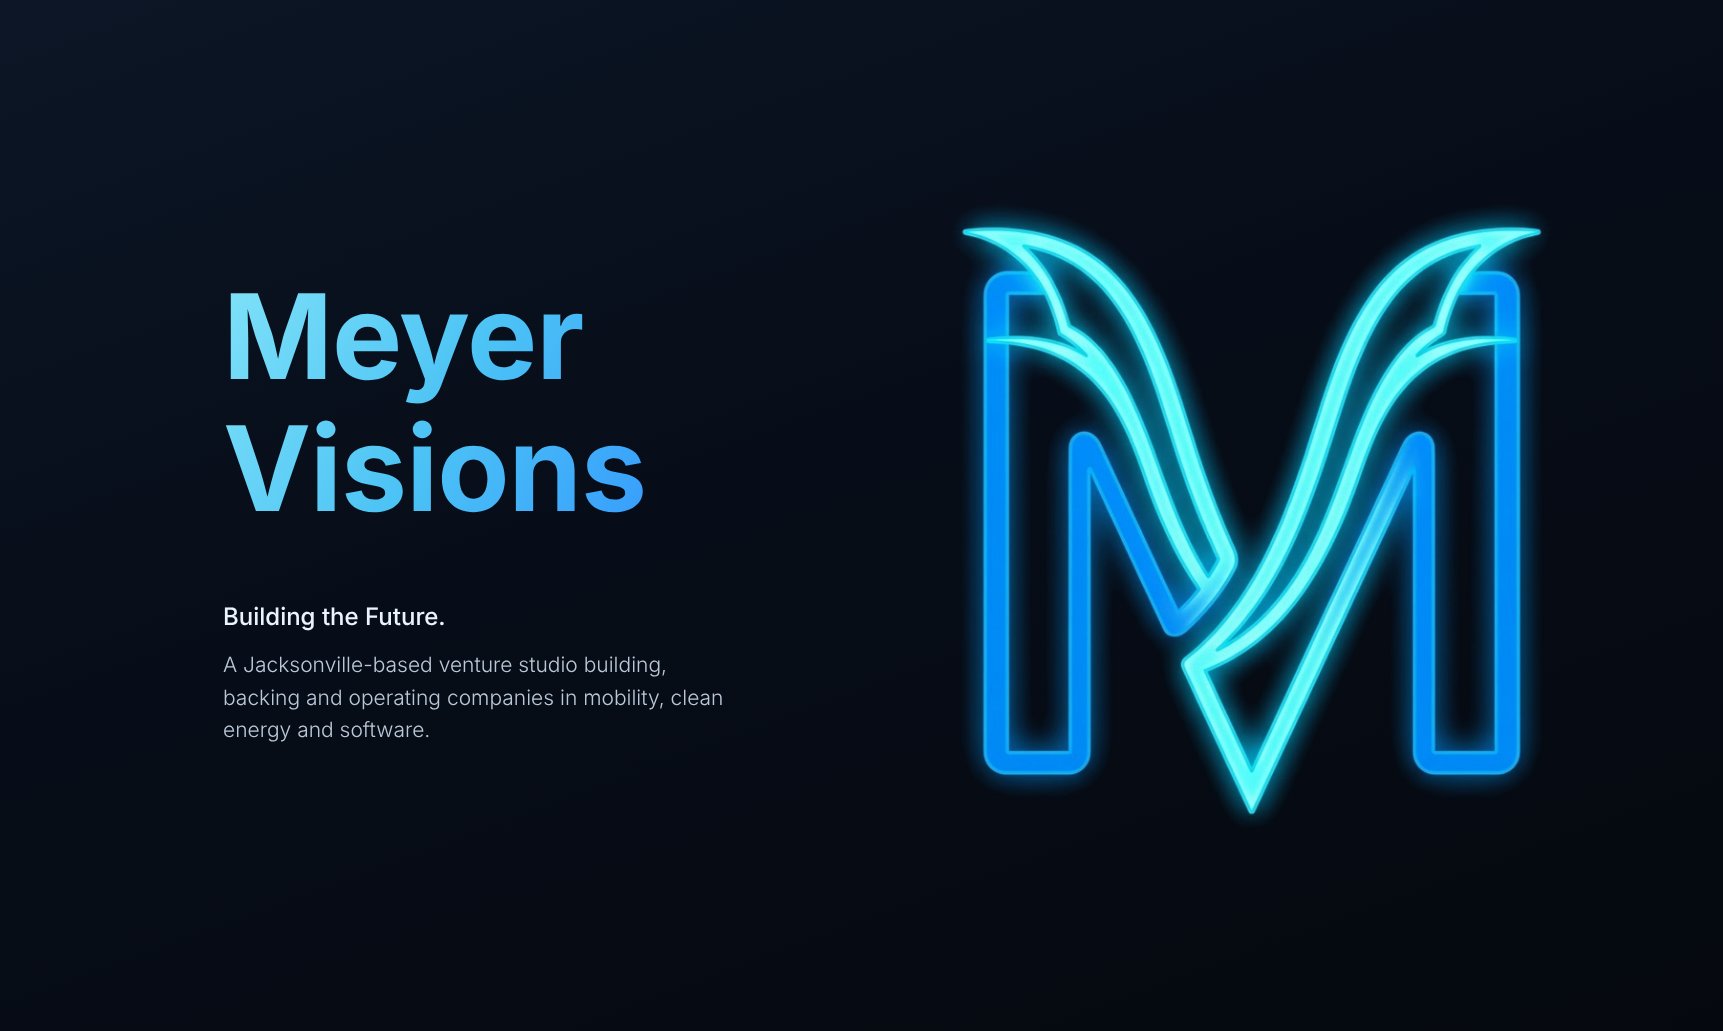
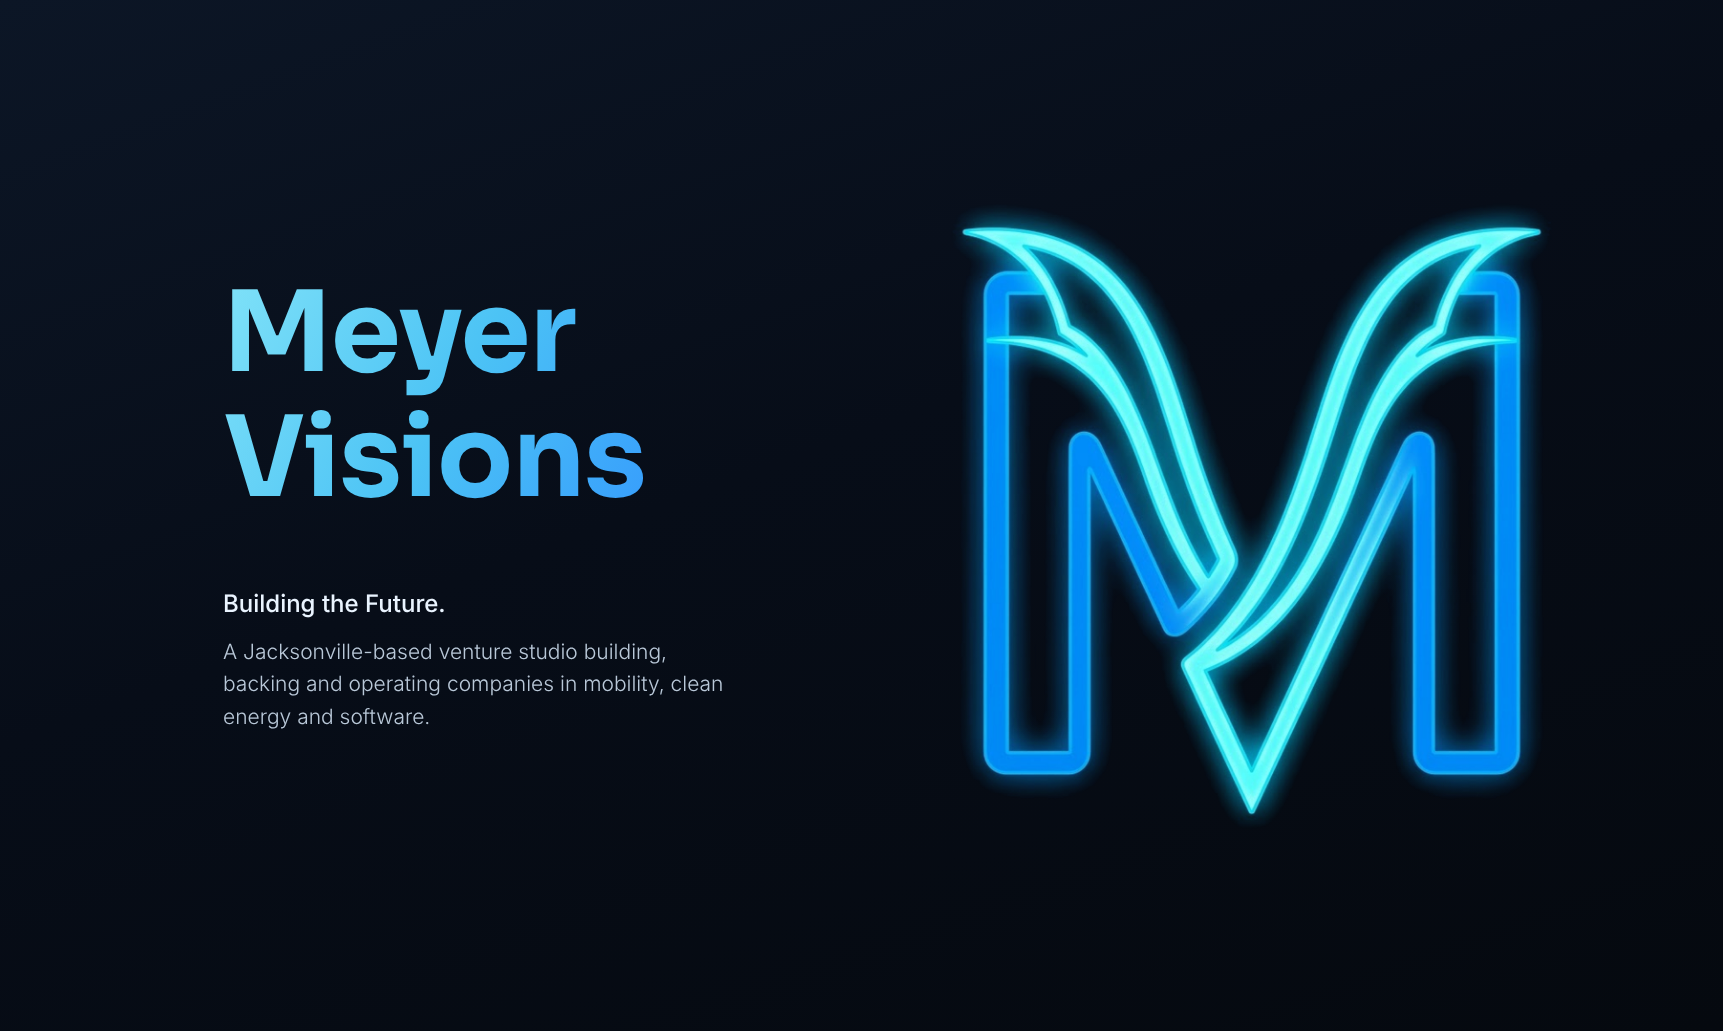
Squash 2026-11-sora-font

Changed region(s): [[0.123, 0.2793, 0.3691, 0.4966], [0.123, 0.5587, 0.4306, 0.7139]]

diff --git a/src/components/Hero.vue b/src/components/Hero.vue
@@ -67,7 +67,12 @@ const TextContainer = styled.div`
   margin: 10px;
 
   /* Responsive */
-  margin-top: -20px;
+  margin-top: 100px;
+
+  /* Short screens: less top margin so the button keeps room below it */
+  @media screen and (max-height: 760px) {
+    margin-top: 40px;
+  }
 
   @media screen and (max-width: ${({theme}) => theme.screen.width.desktop}px) {
     width: calc(100% - 40px);
@@ -77,16 +82,19 @@ const TextContainer = styled.div`
 `
 
 const Heading = styled.h1`
+  font-family: 'Sora', -apple-system, system-ui, BlinkMacSystemFont, "Segoe UI", Roboto, sans-serif;
   font-size: 5rem;
+  line-height: 1.08;
+  letter-spacing: -1px;
   margin: 32px auto;
-  font-weight: bold;
+  font-weight: 700;
   background: ${({theme}) => theme.headingGradient || 'none'};
   -webkit-background-clip: text;
   background-clip: text;
   -webkit-text-fill-color: transparent;
   color: transparent;
   @media screen and (max-width: ${({theme}) => theme.screen.width.desktop}px) {
-    font-size: 72px;
+    font-size: clamp(40px, 12vw, 64px);
   }
 `
 

diff --git a/public/index.html b/public/index.html
@@ -18,6 +18,9 @@
     <link rel="icon" type="image/png" sizes="32x32" href="/32x32.png">
     <link rel="icon" type="image/png" sizes="16x16" href="/16x16.png">
     <link rel="manifest" href="/site.webmanifest">
+    <link rel="preconnect" href="https://fonts.googleapis.com">
+    <link rel="preconnect" href="https://fonts.gstatic.com" crossorigin>
+    <link rel="stylesheet" href="https://fonts.googleapis.com/css2?family=Sora:wght@700&display=swap">
     <link rel="stylesheet" type="text/css" href="https://cdnjs.cloudflare.com/ajax/libs/font-awesome/6.4.2/css/all.min.css" />
     <link rel="canonical" href="https://www.meyervisions.com/" />
 

diff --git a/src/themes/light.ts b/src/themes/light.ts
@@ -13,7 +13,7 @@ export default {
     fallbackBackground: "#f4f9fd",
   },
   // Gradient for the "Meyer Visions" heading
-  headingGradient: "linear-gradient(120deg, #0670c8 0%, #1a8fe8 50%, #38b6f0 100%)",
+  headingGradient: "linear-gradient(310deg, #0670c8 0%, #1a8fe8 50%, #38b6f0 100%)",
   card: {
     // background: "#f8f8f8",
     background: "radial-gradient(145% 145.46% at 0% 0%, #ffffff 0%, #f1f7fc 100%)",
